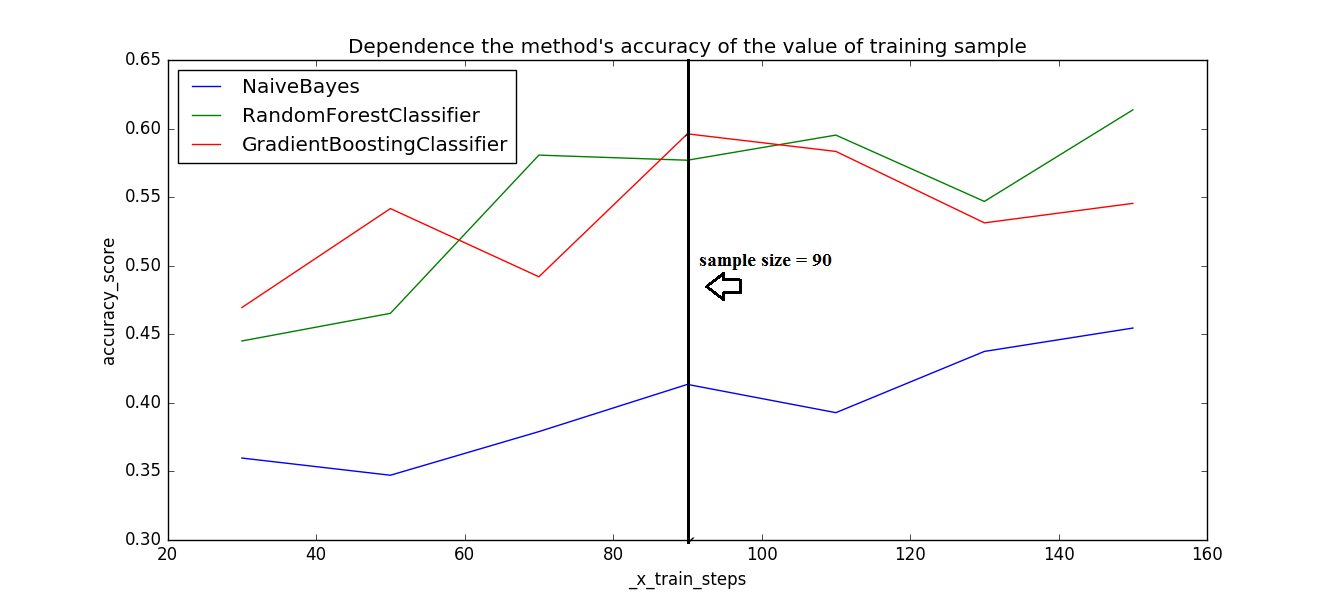
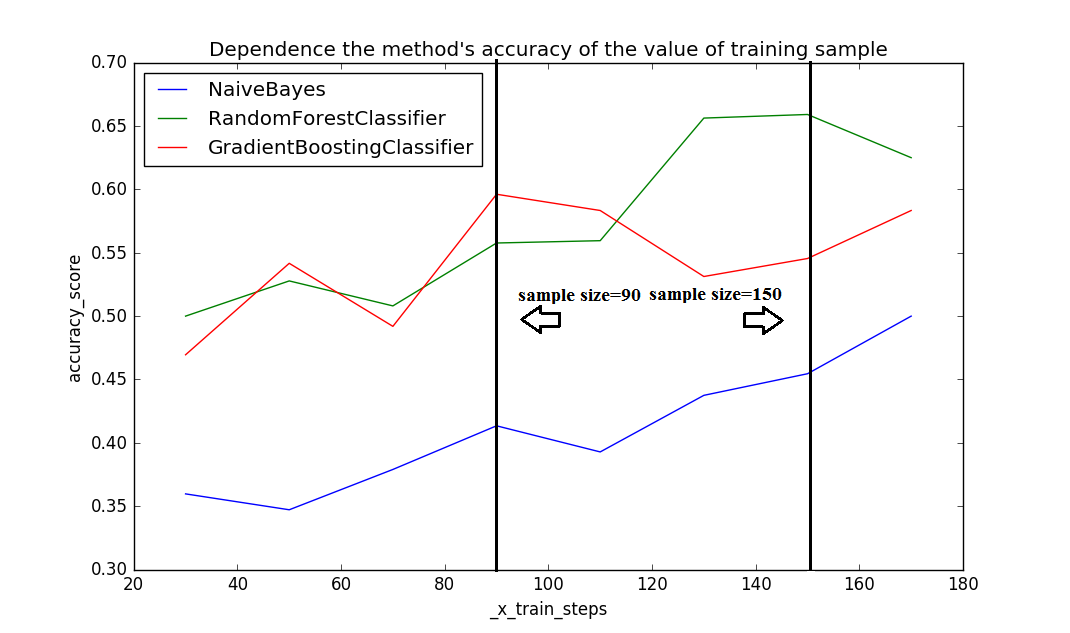
updated accurancy plot

diff --git a/main.py b/main.py
@@ -92,7 +92,7 @@ if __name__ == "__main__":
     accuracy_score_bnb = []
     accuracy_score_rfc = []
     accuracy_score_gbc = []
-    for i in range(30, 160, 20):
+    for i in range(30, 174, 20):
         _x_train_steps.append(i)
         _x_train, _y_train, _x_test, _y_test, _x_all, _y_all = \
             prepare_matrix_for_feature_engineering(_matrix_from_file, i)
